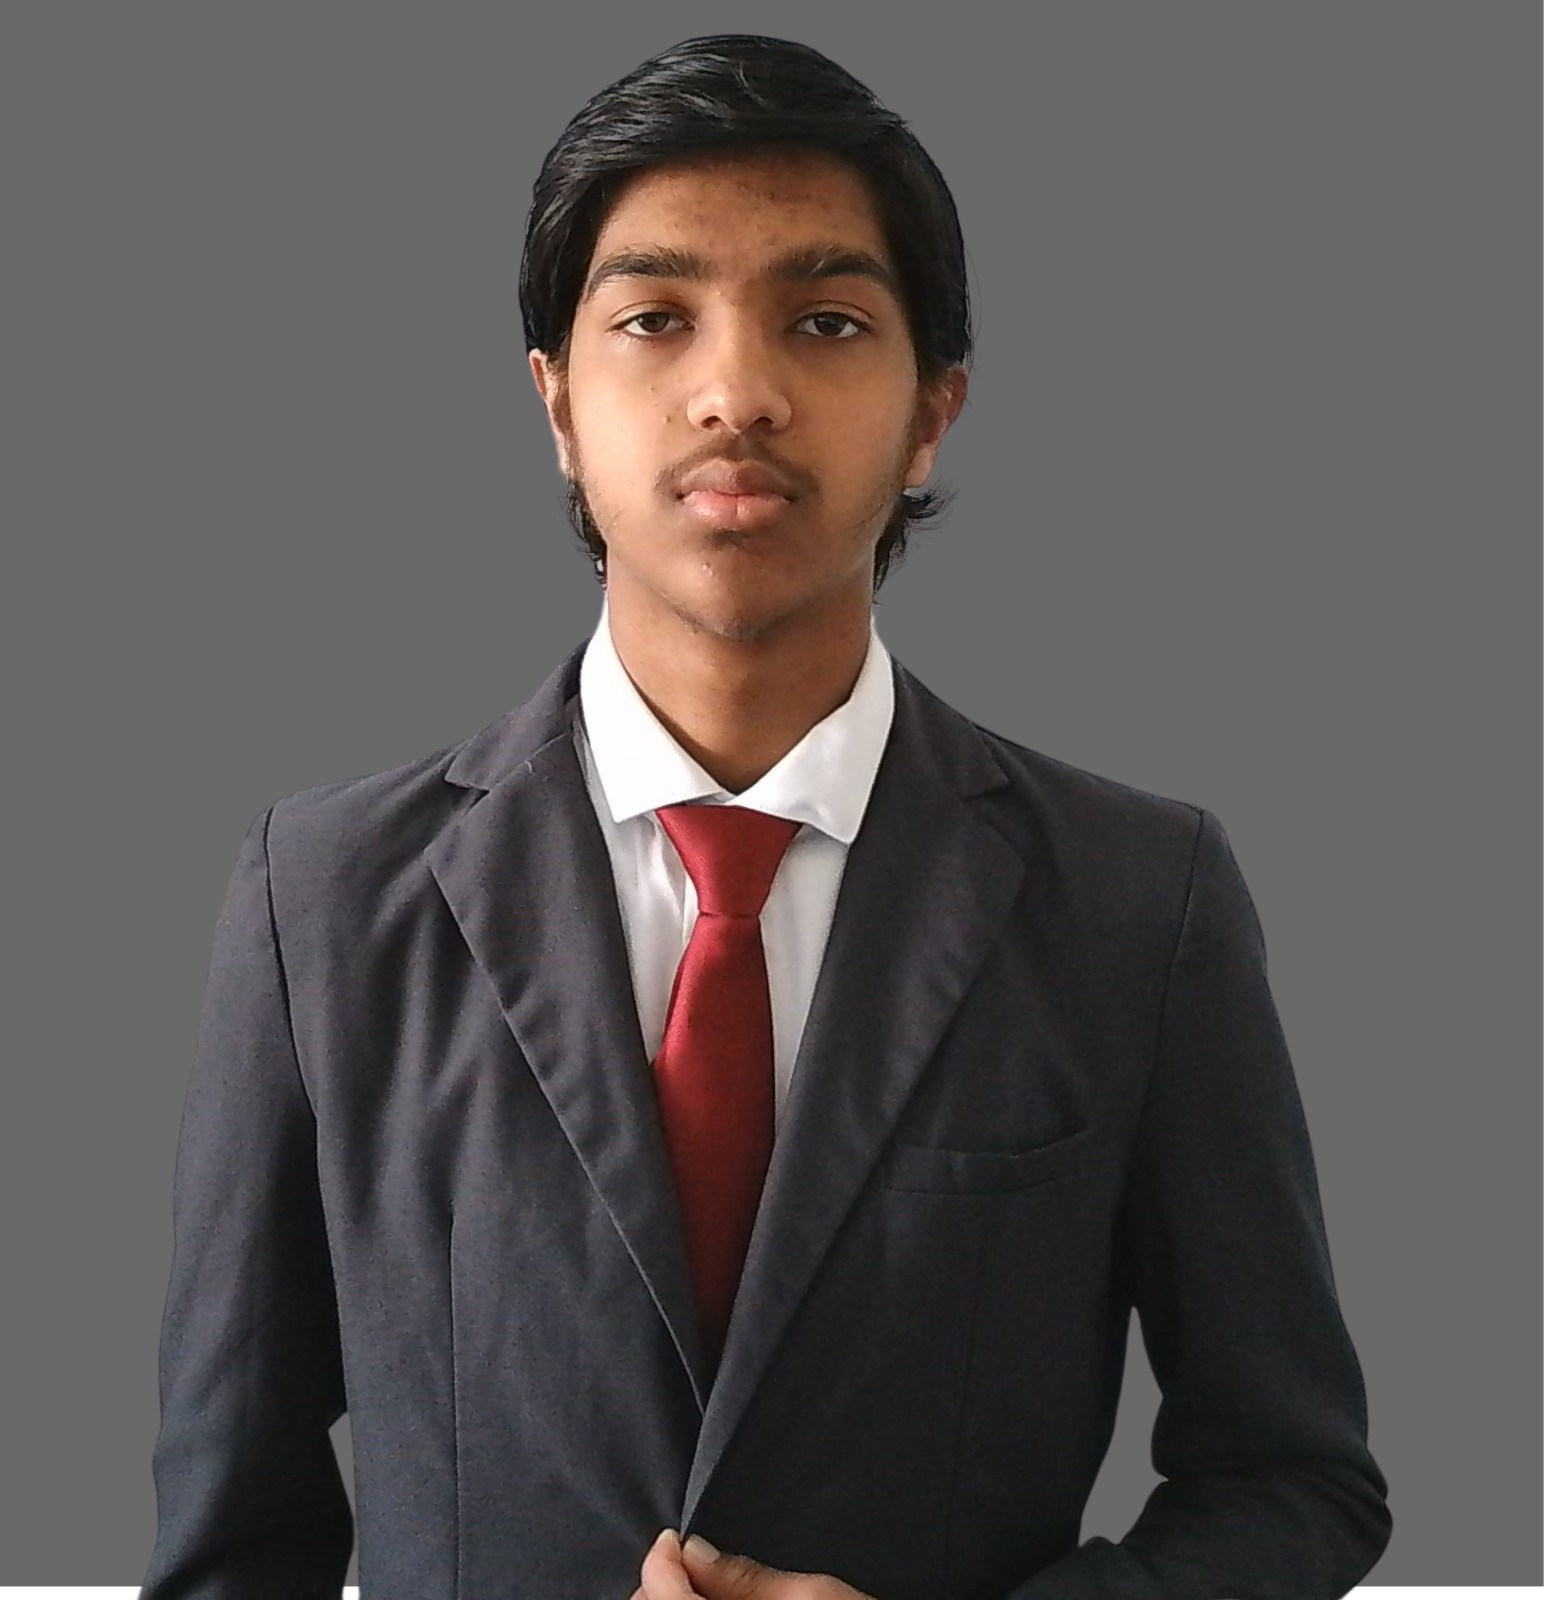
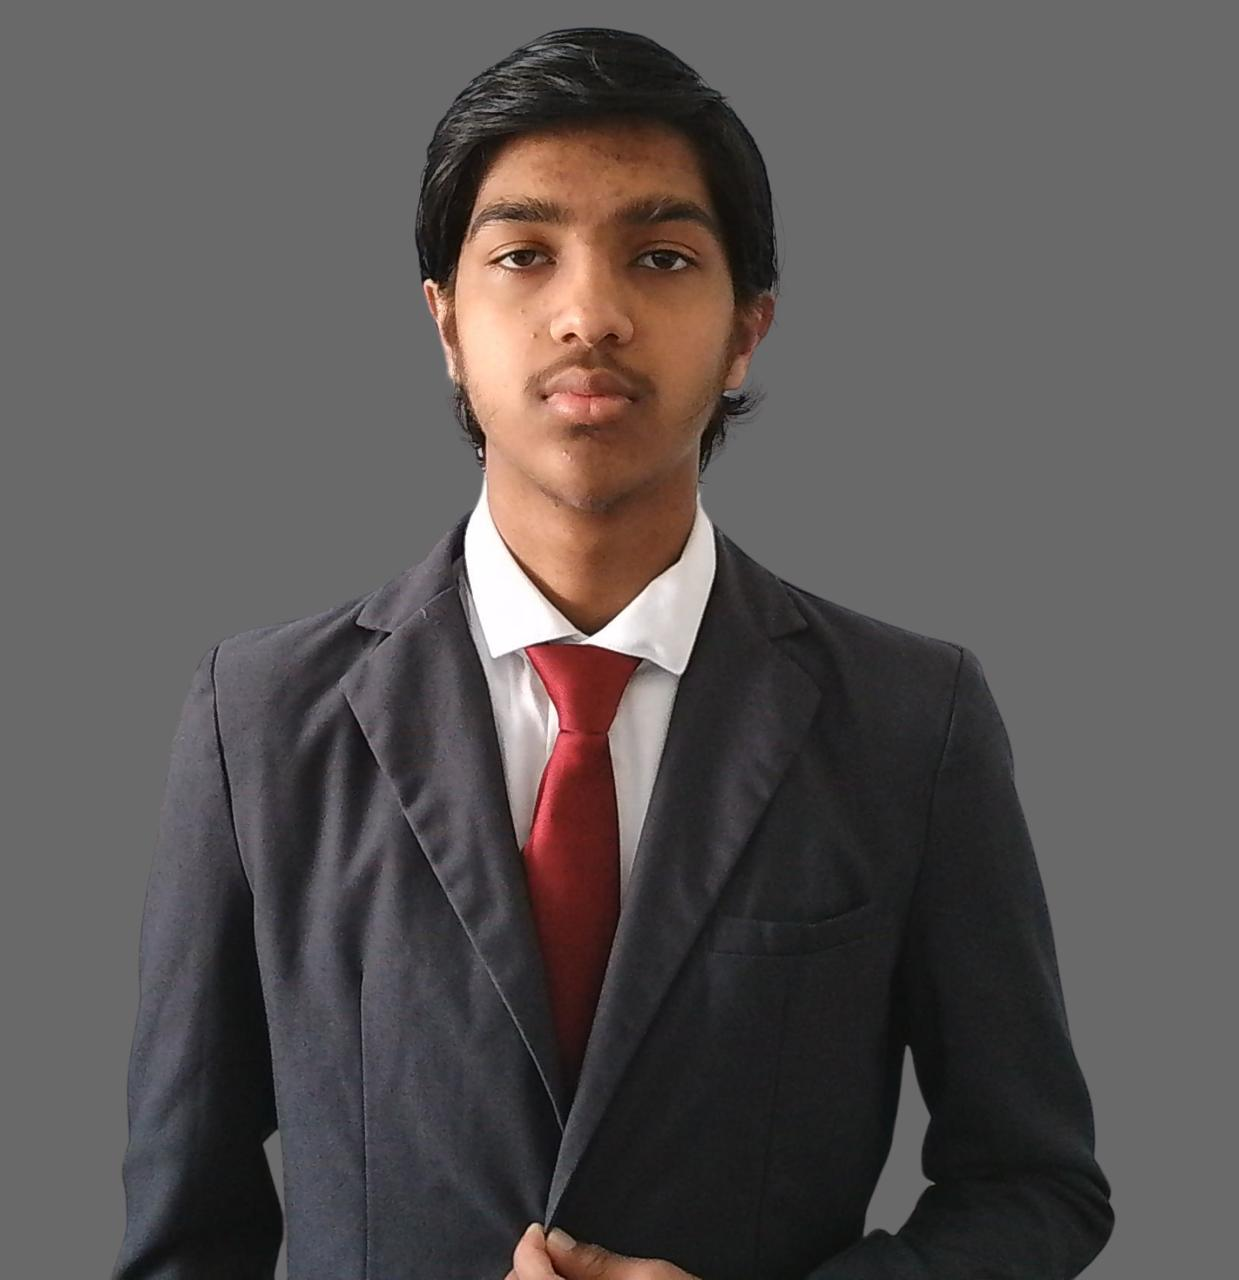
Unify public page navigation and footer

Changed region(s): [[0.8588, 0.0, 1.0, 1.0], [0.0, 0.9688, 0.092, 1.0], [0.2147, 0.9688, 0.2454, 1.0]]

diff --git a/about/index.html b/about/index.html
@@ -9,30 +9,33 @@
 <link rel="preconnect" href="https://fonts.gstatic.com" crossorigin>
 <link href="https://fonts.googleapis.com/css2?family=Fraunces:ital,opsz,wght@0,9..144,300..700;1,9..144,300..600&family=Inter:wght@400;500;600;700;800&display=swap" rel="stylesheet">
 <style>
-  :root{--bg:#f4efe4;--elev:#fff;--ink:#0b1226;--ink-soft:#2a324a;--muted:#5a6178;--line:rgba(11,18,38,.12);--line-strong:rgba(11,18,38,.22);--blue:#2f63e9}
+  :root{--bg:#f4efe4;--bg-elev:#fff;--ink:#0b1226;--ink-soft:#2a324a;--muted:#5a6178;--line:rgba(11,18,38,.12);--line-strong:rgba(11,18,38,.22);--stamp:#b7331f}
   *{box-sizing:border-box} html,body{margin:0} body{background:var(--bg);color:var(--ink);font-family:"Inter",sans-serif;-webkit-font-smoothing:antialiased}
-  a{color:inherit}.wrap{max-width:1180px;margin:0 auto;padding:0 28px}
-  nav{height:70px;border-bottom:1px solid var(--line);display:flex;align-items:center;justify-content:space-between;gap:24px}
-  .brand{font-size:20px;font-weight:800;letter-spacing:-.055em;text-decoration:none}.brand span{color:var(--blue)}
-  .nav-links{display:flex;align-items:center;gap:22px}.nav-links a{font-size:13px;font-weight:600;color:var(--ink-soft);text-decoration:none}.nav-links a:hover,.nav-links .active{color:var(--ink)}
-  .nav-cta{background:var(--ink);color:var(--bg)!important;padding:10px 15px}.nav-cta:hover{opacity:.88}
+  a{color:inherit;text-decoration:none}.wrap{max-width:1080px;margin:0 auto;padding:0 28px}
+  .nav{position:sticky;top:0;z-index:20;background:var(--bg);border-bottom:1px solid var(--line)}.nav-in{display:flex;align-items:center;justify-content:space-between;height:64px}
+  .brand{display:flex;align-items:center;gap:10px;font-family:"Inter",sans-serif;font-weight:700;font-size:17px;letter-spacing:-.01em}.brand-mark{width:28px;height:28px;background:url('/logo-light-sm.png') center top/62px auto no-repeat}
+  .nav-right{display:flex;align-items:center;gap:12px}.nav-cta{font-family:"Inter",sans-serif;font-size:13.5px;font-weight:600;background:var(--ink);color:var(--bg);padding:9px 18px;border-radius:999px;border:1px solid var(--ink);transition:opacity .15s ease,transform .15s ease}.nav-cta:hover{opacity:.88;transform:translateY(-1px)}
+  .nav-link{font-family:"Inter",sans-serif;font-size:13.5px;color:var(--ink-soft);background:transparent;padding:7px 13px;border-radius:999px;transition:background .15s ease,color .15s ease}.nav-link:hover{color:var(--ink);background:color-mix(in srgb,var(--ink) 8%,transparent)}.nav-link.active{color:var(--ink);background:color-mix(in srgb,var(--ink) 12%,transparent)}
   main{padding:86px 0 96px}.eyebrow{font-size:11px;font-weight:800;text-transform:uppercase;letter-spacing:.12em;color:var(--blue);margin:0 0 18px}
   h1{font-family:"Fraunces",Georgia,serif;font-size:clamp(52px,8vw,104px);font-weight:400;letter-spacing:-.06em;line-height:.94;margin:0;max-width:850px}.it{font-style:italic;font-weight:300}
   .intro{font-size:17px;line-height:1.65;color:var(--ink-soft);max-width:620px;margin:30px 0 0}.rule{height:1px;background:var(--line-strong);margin:82px 0 30px}
   .team-head{display:flex;align-items:end;justify-content:space-between;gap:24px;margin-bottom:26px}.team-head h2{font-family:"Fraunces",Georgia,serif;font-size:38px;font-weight:400;letter-spacing:-.04em;line-height:1;margin:0}.team-head p{font-size:13px;color:var(--muted);margin:0;max-width:315px;line-height:1.5}
   .team{display:grid;grid-template-columns:repeat(4,1fr);border-top:1px solid var(--line);border-left:1px solid var(--line)}
-  .person{min-height:415px;background:var(--elev);border-right:1px solid var(--line);border-bottom:1px solid var(--line);display:flex;flex-direction:column}.photo{width:100%;aspect-ratio:1/1.03;overflow:hidden;background:#d3d0ca}.photo img{width:100%;height:100%;object-fit:cover;object-position:center 20%;display:block;filter:saturate(.92)}.person:nth-child(1) .photo img{object-position:center 18%}.person:nth-child(2) .photo img{object-position:center 15%}.person:nth-child(3) .photo img{object-position:center 16%}.person:nth-child(4) .photo img{object-position:center 14%}
-  .person-info{padding:19px 20px 23px}.role{font-size:10px;font-weight:800;text-transform:uppercase;letter-spacing:.12em;color:var(--blue);margin:0 0 8px}.name{font-family:"Fraunces",Georgia,serif;font-size:25px;font-weight:400;letter-spacing:-.035em;line-height:1.05;margin:0}
+  .person{min-height:415px;background:var(--bg-elev);border-right:1px solid var(--line);border-bottom:1px solid var(--line);display:flex;flex-direction:column}.photo{width:100%;aspect-ratio:1/1.03;overflow:hidden;background:#d3d0ca}.photo img{width:100%;height:100%;object-fit:cover;object-position:center 20%;display:block;filter:saturate(.92)}.person:nth-child(1) .photo img{object-position:center 18%}.person:nth-child(2) .photo img{object-position:center 15%}.person:nth-child(3) .photo img{object-position:center 16%}.person:nth-child(4) .photo img{object-position:center 14%}
+  .person-info{padding:19px 20px 23px}.role{font-size:10px;font-weight:800;text-transform:uppercase;letter-spacing:.12em;color:var(--stamp);margin:0 0 8px}.name{font-family:"Fraunces",Georgia,serif;font-size:25px;font-weight:400;letter-spacing:-.035em;line-height:1.05;margin:0}
   .statement{margin-top:72px;padding:44px 0;border-top:1px solid var(--line);border-bottom:1px solid var(--line);display:grid;grid-template-columns:1fr 2fr;gap:48px}.statement h2{font-family:"Fraunces",Georgia,serif;font-size:34px;font-weight:400;letter-spacing:-.04em;line-height:1;margin:0}.statement p{font-family:"Fraunces",Georgia,serif;font-size:23px;line-height:1.35;letter-spacing:-.025em;margin:0;color:var(--ink-soft)}
-  footer{border-top:1px solid var(--line);padding:30px 0;color:var(--muted);font-size:12px}.foot{display:flex;justify-content:space-between;gap:20px;flex-wrap:wrap}.foot a{text-decoration:none}.foot a:hover{color:var(--ink)}.foot-links{display:flex;gap:20px;flex-wrap:wrap}
-  @media(max-width:780px){.wrap{padding:0 20px}.nav-links a:not(.nav-cta){display:none}main{padding:58px 0 70px}.rule{margin:58px 0 24px}.team-head{align-items:start;flex-direction:column}.team{grid-template-columns:repeat(2,1fr)}.person{min-height:0}.statement{grid-template-columns:1fr;gap:22px;margin-top:48px}.statement p{font-size:20px}}
+  .ft{border-top:1px solid var(--line);background:var(--bg);padding:60px 0 30px;font-family:"Inter",sans-serif;color:var(--muted);font-size:13px}.ft-top{display:flex;justify-content:space-between;gap:48px;flex-wrap:wrap;padding-bottom:44px}.ft-brand{max-width:300px}.ft-brand .brand{margin-bottom:12px}.ft-tag{font-size:13px;color:var(--muted);line-height:1.6;margin:0}.ft-cols{display:flex;gap:64px;flex-wrap:wrap}.ft-col{display:flex;flex-direction:column;gap:11px}.ft-h{font-size:11px;letter-spacing:.14em;text-transform:uppercase;color:var(--muted);font-weight:700;margin-bottom:3px}.ft-col a{font-size:13.5px;color:var(--ink-soft);cursor:pointer}.ft-col a:hover{color:var(--ink)}.ft-bottom{display:flex;justify-content:space-between;gap:16px;flex-wrap:wrap;padding-top:24px;border-top:1px solid var(--line);font-size:12.5px;color:var(--muted)}.ft-bottom a{color:var(--muted);text-decoration:underline;text-underline-offset:2px}.ft-bottom a:hover{color:var(--ink)}
+  @media(max-width:780px){.wrap{padding:0 20px}.nav-right a:not(.nav-cta){display:none}main{padding:58px 0 70px}.rule{margin:58px 0 24px}.team-head{align-items:start;flex-direction:column}.team{grid-template-columns:repeat(2,1fr)}.person{min-height:0}.statement{grid-template-columns:1fr;gap:22px;margin-top:48px}.statement p{font-size:20px}}
+  @media(max-width:640px){.ft-top{flex-direction:column;gap:32px}.ft-cols{gap:40px}}
   @media(max-width:430px){.team{grid-template-columns:1fr}.brand{font-size:19px}}
 </style>
 </head>
 <body>
-<nav class="wrap">
-  <a class="brand" href="/">atom<span>edu</span></a>
-  <div class="nav-links"><a href="/">Home</a><a class="active" href="/about/">About</a><a href="/terms/">Legal</a><a class="nav-cta" href="/#signup">Get started</a></div>
+<nav class="nav">
+  <div class="wrap nav-in">
+    <a class="brand" href="/"><div class="brand-mark"></div><span>Atom Edu</span></a>
+    <div class="nav-right"><a class="nav-link" href="/#how">How it works</a><a class="nav-link" href="/#inside">Inside</a><a class="nav-link active" href="/about/">About</a><a class="nav-link" href="/#signin">Sign in</a><a class="nav-cta" href="/#signup">Get started</a></div>
+  </div>
 </nav>
 <main class="wrap">
   <p class="eyebrow">About Atom Edu</p>
@@ -48,6 +51,6 @@
   </section>
   <section class="statement"><h2>Our point of view.</h2><p>Teachers should never have to choose between saving time and doing work they can stand behind. Atom handles the first draft. Teachers keep the judgment, context, and final say.</p></section>
 </main>
-<footer><div class="wrap foot"><div>&copy; 2026 Atom Edu</div><div class="foot-links"><a href="/about/">About</a><a href="/terms/">Terms</a><a href="/terms/#privacy">Privacy</a><a href="https://docupeer.org" target="_blank" rel="noopener">DocuPeer</a></div></div></footer>
+<footer class="ft"><div class="wrap"><div class="ft-top"><div class="ft-brand"><a class="brand" href="/"><div class="brand-mark"></div><span>Atom Edu</span></a><p class="ft-tag">Free drafting tools for teachers. Atom drafts, you approve everything before it reaches a student.</p></div><div class="ft-cols"><div class="ft-col"><div class="ft-h">Product</div><a href="/#how">How it works</a><a href="/#inside">Inside</a><a href="/#signup">Get started</a></div><div class="ft-col"><div class="ft-h">Legal</div><a href="/terms/">Terms</a><a href="/terms/#privacy">Privacy</a></div><div class="ft-col"><div class="ft-h">Company</div><a href="/about/">About</a><a href="https://docupeer.org" target="_blank" rel="noopener">DocuPeer</a><a href="mailto:hello@atom-edu.org">Contact</a></div></div></div><div class="ft-bottom"><div>&copy; 2026 Atom Edu</div><div>A subsidiary of <a href="https://docupeer.org" target="_blank" rel="noopener">DocuPeer</a>.</div></div></div></footer>
 </body>
 </html>

diff --git a/terms/index.html b/terms/index.html
@@ -23,34 +23,19 @@
     -webkit-font-smoothing: antialiased; line-height: 1.55;
   }
   a { color: inherit; }
-  .wrap { max-width: 800px; margin: 0 auto; padding: 0 28px; }
+  .wrap { max-width: 1080px; margin: 0 auto; padding: 0 28px; }
+  .doc-wrap { max-width: 800px; }
 
-  nav {
-    position: sticky; top: 0; z-index: 20;
-    height: 64px; display: flex; align-items: center; justify-content: space-between;
-    border-bottom: 1px solid var(--line); background: var(--bg);
-    font-family: "Inter", sans-serif;
-  }
-  nav .brand {
-    display: flex; align-items: center; gap: 10px;
-    font-weight: 700; font-size: 17px; letter-spacing: -0.01em;
-    text-decoration: none; color: var(--ink);
-  }
-  nav .links { display: flex; align-items: center; gap: 6px; }
-  nav .links a {
-    font-size: 13.5px; color: var(--ink-soft); font-weight: 500;
-    padding: 7px 13px; border-radius: 999px; text-decoration: none;
-    transition: background .15s ease, color .15s ease;
-  }
-  nav .links a:hover { color: var(--ink); background: color-mix(in srgb, var(--ink) 8%, transparent); }
-  nav .links a.active { color: var(--ink); background: color-mix(in srgb, var(--ink) 12%, transparent); }
-  nav .cta {
-    background: var(--ink); color: var(--bg); border: 1px solid var(--ink);
-    padding: 9px 18px; border-radius: 999px; text-decoration: none;
-    font-size: 13.5px; font-weight: 600; margin-left: 6px;
-    transition: opacity .15s ease, transform .15s ease;
-  }
-  nav .cta:hover { opacity: .88; transform: translateY(-1px); background: var(--ink); color: var(--bg); }
+  .nav { position: sticky; top: 0; z-index: 20; background: var(--bg); border-bottom: 1px solid var(--line); font-family: "Inter", sans-serif; }
+  .nav-in { display: flex; align-items: center; justify-content: space-between; height: 64px; }
+  .brand { display: flex; align-items: center; gap: 10px; font-weight: 700; font-size: 17px; letter-spacing: -0.01em; text-decoration: none; color: var(--ink); }
+  .brand-mark { width: 28px; height: 28px; background: url('/logo-light-sm.png') center top / 62px auto no-repeat; }
+  .nav-right { display: flex; align-items: center; gap: 12px; }
+  .nav-link { font-size: 13.5px; color: var(--ink-soft); font-weight: 500; padding: 7px 13px; border-radius: 999px; text-decoration: none; transition: background .15s ease, color .15s ease; }
+  .nav-link:hover { color: var(--ink); background: color-mix(in srgb, var(--ink) 8%, transparent); }
+  .nav-link.active { color: var(--ink); background: color-mix(in srgb, var(--ink) 12%, transparent); }
+  .nav-cta { background: var(--ink); color: var(--bg); border: 1px solid var(--ink); padding: 9px 18px; border-radius: 999px; text-decoration: none; font-size: 13.5px; font-weight: 600; transition: opacity .15s ease, transform .15s ease; }
+  .nav-cta:hover { opacity: .88; transform: translateY(-1px); background: var(--ink); color: var(--bg); }
 
   main { padding: 60px 0 80px; }
   h1 {
@@ -98,28 +83,25 @@
     margin: 22px 0 30px; line-height: 1.6;
   }
 
-  footer {
-    border-top: 1px solid var(--line); padding: 30px 0;
-    font-family: "Inter", sans-serif; font-size: 13px; color: var(--muted);
-  }
-  footer .row { display: flex; justify-content: space-between; gap: 20px; flex-wrap: wrap; }
-  footer a { color: var(--muted); text-decoration: none; }
-  footer a:hover { color: var(--ink); }
-  footer .links { display: flex; gap: 22px; flex-wrap: wrap; }
+  .ft { border-top: 1px solid var(--line); background: var(--bg); padding: 60px 0 30px; font-family: "Inter", sans-serif; color: var(--muted); font-size: 13px; }
+  .ft-top { display: flex; justify-content: space-between; gap: 48px; flex-wrap: wrap; padding-bottom: 44px; }
+  .ft-brand { max-width: 300px; }.ft-brand .brand { margin-bottom: 12px; }.ft-tag { font-size: 13px; color: var(--muted); line-height: 1.6; margin: 0; }
+  .ft-cols { display: flex; gap: 64px; flex-wrap: wrap; }.ft-col { display: flex; flex-direction: column; gap: 11px; }.ft-h { font-size: 11px; letter-spacing: 0.14em; text-transform: uppercase; color: var(--muted); font-weight: 700; margin-bottom: 3px; }
+  .ft-col a { font-size: 13.5px; color: var(--ink-soft); text-decoration: none; }.ft-col a:hover { color: var(--ink); }
+  .ft-bottom { display: flex; justify-content: space-between; gap: 16px; flex-wrap: wrap; padding-top: 24px; border-top: 1px solid var(--line); font-size: 12.5px; color: var(--muted); }.ft-bottom a { color: var(--muted); text-decoration: underline; text-underline-offset: 2px; }.ft-bottom a:hover { color: var(--ink); }
+  @media (max-width: 640px) { .nav-right a:not(.nav-cta) { display: none; }.ft-top { flex-direction: column; gap: 32px; }.ft-cols { gap: 40px; } }
 </style>
 </head>
 <body>
 
-<nav class="wrap">
-  <a class="brand" href="/"><span>Atom Edu</span></a>
-  <div class="links">
-    <a href="/">Home</a>
-    <a href="#terms" class="active">Terms</a>
-    <a href="#privacy">Privacy</a>
+<nav class="nav">
+  <div class="wrap nav-in">
+    <a class="brand" href="/"><div class="brand-mark"></div><span>Atom Edu</span></a>
+    <div class="nav-right"><a class="nav-link" href="/#how">How it works</a><a class="nav-link" href="/#inside">Inside</a><a class="nav-link" href="/about/">About</a><a class="nav-link active" href="/terms/">Legal</a><a class="nav-cta" href="/#signup">Get started</a></div>
   </div>
 </nav>
 
-<main class="wrap">
+<main class="wrap doc-wrap">
   <h1>Legal.</h1>
   <p class="lead"><b>These are the Terms of Use and the Privacy Policy for Atom Edu, in one place.</b> Terms come first, the Privacy Policy follows underneath. Both are written in plain English, and both are current as of 2026.</p>
   <div class="toc">
@@ -215,31 +197,7 @@
   <p>Questions or concerns: <a href="mailto:hello@atom-edu.org">hello@atom-edu.org</a>.</p>
 </main>
 
-<footer>
-  <div class="wrap row">
-    <div>&copy; 2026 Atom Edu. A product of DocuPeer. Free forever for teachers.</div>
-    <div class="links">
-      <a href="/">Home</a>
-      <a href="#terms">Terms</a>
-      <a href="#privacy">Privacy</a>
-      <a href="mailto:hello@atom-edu.org">Contact</a>
-    </div>
-  </div>
-</footer>
-
-<script>
-(function(){
-  var links = Array.prototype.slice.call(document.querySelectorAll('nav .links a[href^="#"]'));
-  var secs = links.map(function(l){ return document.querySelector(l.getAttribute('href')); }).filter(Boolean);
-  function spy(){
-    var pos = window.scrollY + 140, cur = null;
-    secs.forEach(function(s){ if(s.offsetTop <= pos) cur = s.id; });
-    links.forEach(function(l){ l.classList.toggle('active', l.getAttribute('href') === '#' + cur); });
-  }
-  window.addEventListener('scroll', spy, { passive: true });
-  spy();
-})();
-</script>
+<footer class="ft"><div class="wrap"><div class="ft-top"><div class="ft-brand"><a class="brand" href="/"><div class="brand-mark"></div><span>Atom Edu</span></a><p class="ft-tag">Free drafting tools for teachers. Atom drafts, you approve everything before it reaches a student.</p></div><div class="ft-cols"><div class="ft-col"><div class="ft-h">Product</div><a href="/#how">How it works</a><a href="/#inside">Inside</a><a href="/#signup">Get started</a></div><div class="ft-col"><div class="ft-h">Legal</div><a href="/terms/">Terms</a><a href="/terms/#privacy">Privacy</a></div><div class="ft-col"><div class="ft-h">Company</div><a href="/about/">About</a><a href="https://docupeer.org" target="_blank" rel="noopener">DocuPeer</a><a href="mailto:hello@atom-edu.org">Contact</a></div></div></div><div class="ft-bottom"><div>&copy; 2026 Atom Edu</div><div>A subsidiary of <a href="https://docupeer.org" target="_blank" rel="noopener">DocuPeer</a>.</div></div></div></footer>
 
 </body>
 </html>
